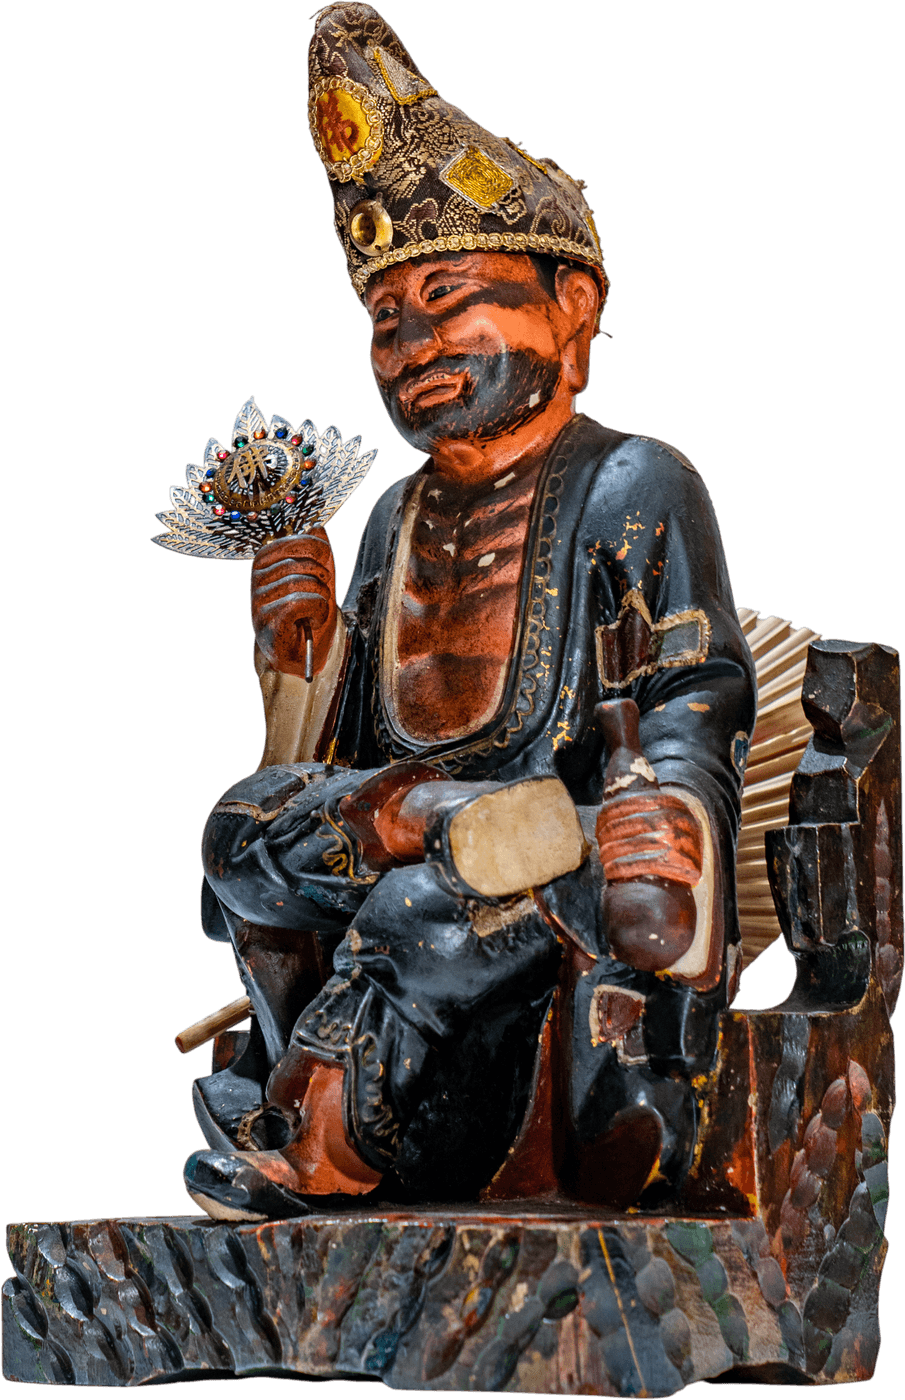
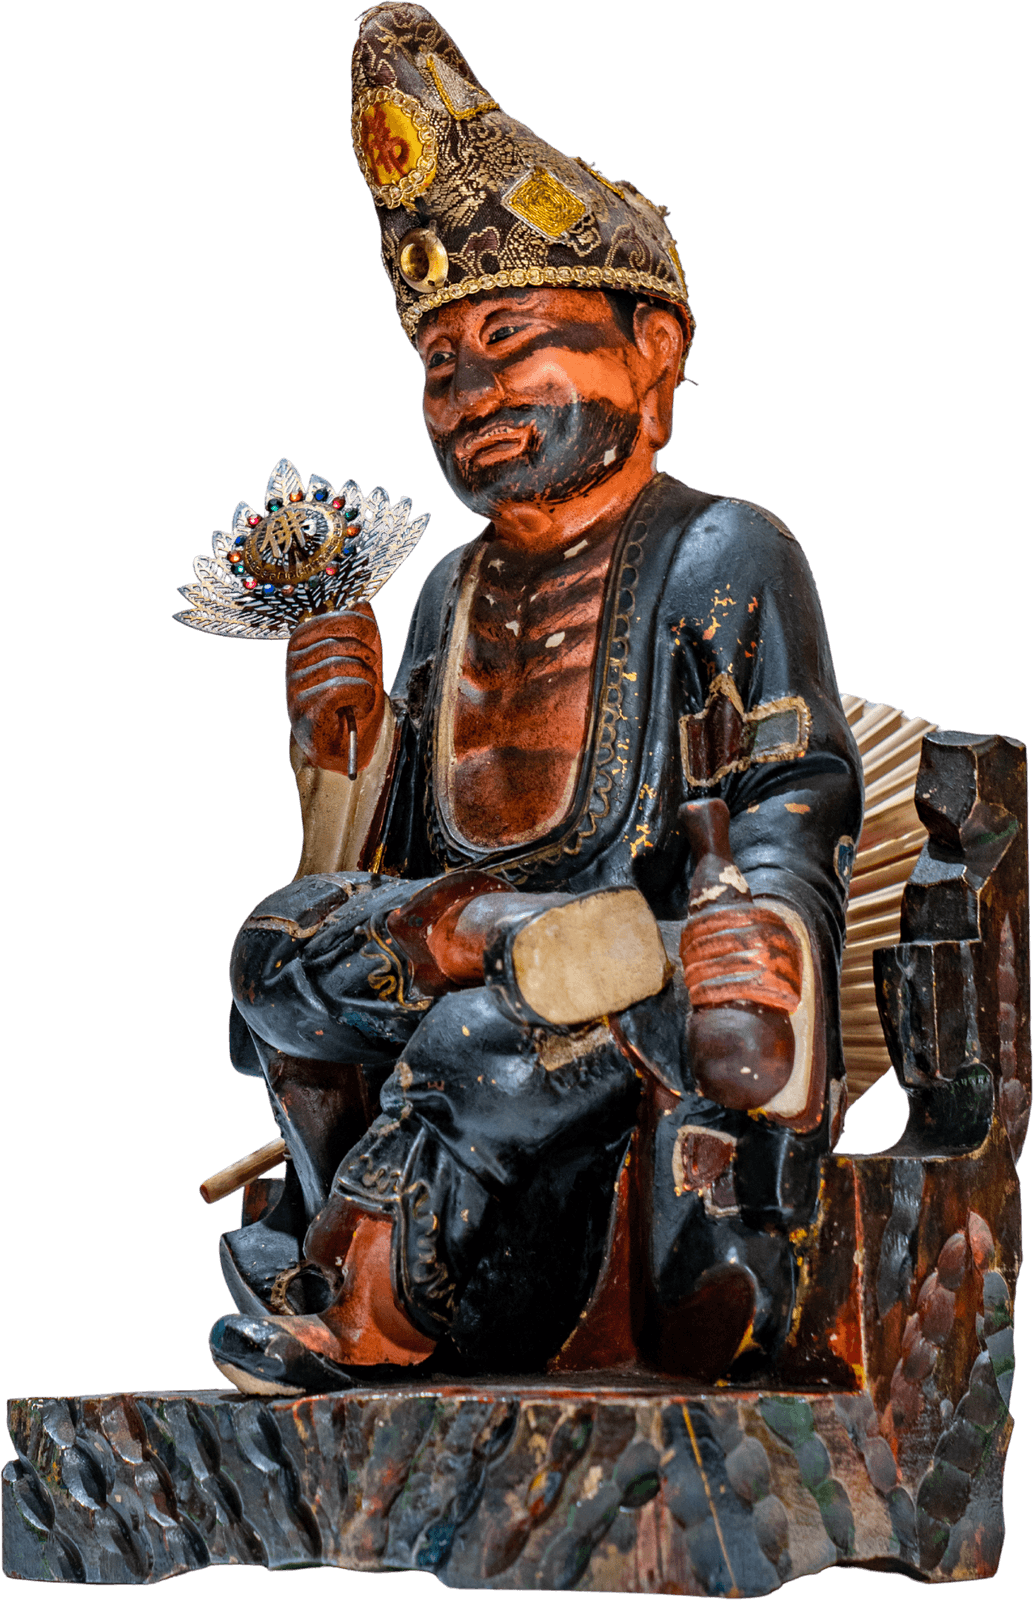
fix: 補上正名與重排的其餘檔案（上一個 commit 只帶到刪檔）
上一個 commit（2b377c6）的 git add 因為 hero-mazu 的 pathspec 已不存在而整批
中止，只有先前用 git rm --cached 暫存的刪除被提交。結果是「hero-mazu.* 已刪除，
但 App.tsx 仍指向它」，正式站中間那尊會抓不到圖。

這個 commit 補上其餘全部：App.tsx（HERO_DEITIES 正名與重排、註解）、index.html
（preload 指向 hero-sanma）、hero-sanma.*（新檔）、hero-jigong.* 與 hero-erma.*
（換成 1600 高的新照片）、CLAUDE.md（min() 係數 0.79）。

內容說明見 2b377c6 的訊息。

diff --git a/App.tsx b/App.tsx
@@ -323,21 +323,38 @@ const HERO_SLIDESHOW = false;
 /**
  * Hero 的三尊神尊。
  *
- * 構圖是**主神居中**：天上聖母最高最大、疊在最上層（z-3），濟公與二媽退為兩側脅侍，
- * 尺寸相當、頂端幾乎齊平，被主神各蓋住一截。三尊的頂端連線是中央最高的拱形，
- * 不是舊版由左而右遞增的斜線——換排法時這條線就是驗收依據。
+ * 身分（**不要再弄錯**）：左＝濟公活佛、中＝天上聖母三媽、右＝天上聖母二媽。
+ * **三媽是本壇主神**，橘袍；二媽是黃袍。檔名 hero-jigong／hero-sanma／hero-erma
+ * 與 alt 都照這個對應，index.html 的 preload 指向三媽。
+ * 想快速確認誰是誰：取袍身色相中位數，三媽約 21°（橘）、二媽約 45°（黃）。
+ *
+ * 構圖是**主神居中、三尊高低錯落**（廟方要求）：
+ *   高度與頂端一律是 三媽 > 二媽 > 濟公，三媽最高最大且疊在最上層（z-3）。
+ *
+ * **驗收依據是「彼此不蓋到頭」**，而且要用實際像素判定，不能只看外框：
+ * 每尊的頭部（含冠帽）範圍由 alpha 輪廓剖面算出——由上往下找寬度首次超過
+ * 最大寬 55% 的那一列當肩線，肩線以上就是頭。實測值：
+ *   濟公 x 22.4–76.1%、y 0–32.8%；三媽 x 23.9–86.6%、y 0–34.5%；
+ *   二媽 x 33.9–88.5%、y 0–42.0%。
+ * 判定要取「上層那尊的不透明像素 ∩ 下層那尊頭部的不透明像素」。只用頭部矩形
+ * 會誤判——矩形四角本來就是透明的，量到的重疊有一半根本沒碰到冠帽。
  *
  * **手機（未加 sm: 的那組）用 vw、桌機（sm:）用 vh，同一個斷點內單位必須一致**，
  * 否則畫面比例一變，三尊的相對大小與重疊量就會各走各的，拱形也就歪了。
  *
- * 桌機那組每個 vh 都包一層 `min(A vh, A×0.875 vw)`（**0.875 這個比例八個值要一起改**）。
+ * 桌機那組每個 vh 都包一層 `min(A vh, A×0.79 vw)`（**0.79 這個比例八個值要一起改**）。
  * 為什麼需要：平板直立（iPad 第十代 820×1180）時螢幕又高又窄，純 vh 會讓整組寬過畫面，
  * 最左邊的濟公被切掉。加上 vw 上限之後，高瘦畫面自動改由寬度決定尺寸，三個高度與
- * 兩個重疊量同步縮放，構圖不變。係數從 0.9 降到 0.875 是因為主神居中的新構圖比舊版寬，
- * 820×1180 下整組原本溢出左緣 20px；0.875 讓它縮到 794px，剛好塞進可用的 796px。
- * 判定門檻是長寬比 1/0.875 ≈ 1.143：比這寬（一般桌機、筆電、平板橫放）走 vh，
- * **桌機完全不受影響**（1280×800 實測三尊高度仍是 512/752/544、位置一模一樣）；
- * 比這窄（平板直立）走 vw。
+ * 兩個重疊量同步縮放，構圖不變。係數一路從 0.9 降到 0.79，是因為每次把整組加大
+ * （廟方要求「不要都擠在右下角，提高到整個右邊」）都會讓它在平板直立溢出左緣。
+ * 0.79 讓 820×1180 下整組剛好塞得進可用寬度。
+ * 判定門檻是長寬比 1/0.79 ≈ 1.266：比這寬（一般桌機、筆電、平板橫放）走 vh，
+ * **桌機完全不受影響**；比這窄（平板直立）走 vw。
+ *
+ * 已知未修：平板直立（820×1180）時 Hero 左欄的「報名普渡法會」按鈕會被擠出畫面左緣。
+ * 那是既有問題（正式站量到 left=-173），成因是 stage 掛 shrink-0、左欄是 flex-1，
+ * 按鈕又是 whitespace-nowrap。要修得把 Hero 的兩欄斷點從 sm 提到 lg，讓平板直立
+ * 沿用手機的上下堆疊版型——那是另一件事，不在這一輪。
  *
  * `sm:max-w-none`：原本的 `sm:max-w-[44/52/60vw]` 是防呆上限，但三個加起來是 156vw，
  * 在窄螢幕上三個同時觸頂，反而變成「寬度被撐開」的元凶。高度改用 min() 之後
@@ -347,21 +364,21 @@ const HERO_SLIDESHOW = false;
  * `margin-bottom: -calc(...)`，那是無效的 CSS。
  */
 const HERO_DEITIES: Array<{ src: string; fallback: string; name: string; size: string; drop: string; gap?: string; layer: string; priority?: boolean }> = [
-  // 左脅侍。z 在主神之下，右半邊被主神蓋住一截。
+  // 左：濟公活佛。z 在主神之下，右半邊被主神蓋住一截（但不會蓋到頭，見上方說明）。
   { src: '/hero-jigong.webp', fallback: '/hero-jigong.png', name: '濟公活佛',
-    size: 'h-[76vw] max-w-[70vw] sm:h-[min(64vh,56vw)] sm:max-w-none',
-    drop: '-mb-[6.6vw] sm:mb-[calc(min(5.2vh,4.55vw)*-1)]', layer: 'z-[2]' },
-  // 主神居中：最高最大、疊在最上層，優先權也給她
-  //（index.html 的 preload 也是這一張，兩邊要一致）
-  { src: '/hero-mazu.webp',   fallback: '/hero-mazu.png',   name: '天上聖母',
-    size: 'h-[120vw] max-w-[88vw] sm:h-[min(94vh,82.25vw)] sm:max-w-none',
-    drop: '-mb-[16.2vw] sm:mb-[calc(min(11.5vh,10.06vw)*-1)]',
-    gap: '-ml-[29vw] sm:ml-[calc(min(16vh,14vw)*-1)]', layer: 'z-[3]', priority: true },
-  // 右脅侍。二媽也是天上聖母，但在這個構圖裡退為脅侍，尺寸與濟公相當
-  { src: '/hero-erma.webp',   fallback: '/hero-erma.png',   name: '天上聖母（二媽）',
-    size: 'h-[80vw] max-w-[74vw] sm:h-[min(68vh,59.5vw)] sm:max-w-none',
-    drop: '-mb-[10.3vw] sm:mb-[calc(min(8vh,7vw)*-1)]',
-    gap: '-ml-[27vw] sm:ml-[calc(min(16vh,14vw)*-1)]', layer: 'z-[1]' },
+    size: 'h-[60vw] max-w-[72vw] sm:h-[min(72vh,56.88vw)] sm:max-w-none',
+    drop: '-mb-[7vw] sm:mb-[calc(min(8vh,6.32vw)*-1)]', layer: 'z-[2]' },
+  // 中：天上聖母三媽，本壇主神。最高最大、疊在最上層，優先權與 preload 都給她
+  //（index.html 的 preload 要指向同一張，兩邊不一致等於預載了不是主角的那張）
+  { src: '/hero-sanma.webp',  fallback: '/hero-sanma.png',  name: '天上聖母三媽',
+    size: 'h-[112vw] max-w-[88vw] sm:h-[min(98vh,77.42vw)] sm:max-w-none',
+    drop: '-mb-[17vw] sm:mb-[calc(min(13vh,10.27vw)*-1)]',
+    gap: '-ml-[15vw] sm:ml-[calc(min(10.5vh,8.29vw)*-1)]', layer: 'z-[3]', priority: true },
+  // 右：天上聖母二媽。刻意與濟公不同高，做出「高高低低」而不是對稱的兩根柱子
+  { src: '/hero-erma.webp',   fallback: '/hero-erma.png',   name: '天上聖母二媽',
+    size: 'h-[64vw] max-w-[76vw] sm:h-[min(78vh,61.62vw)] sm:max-w-none',
+    drop: '-mb-[9vw] sm:mb-[calc(min(6vh,4.74vw)*-1)]',
+    gap: '-ml-[16vw] sm:ml-[calc(min(15.5vh,12.25vw)*-1)]', layer: 'z-[1]' },
 ];
 
 // 志工報名有自己的網址 /volunteer：可單獨分享，瀏覽器上一頁也能正確返回。

diff --git a/index.html b/index.html
@@ -20,7 +20,7 @@
     <link rel="apple-touch-icon" href="/apple-touch-icon.png" />
     <link rel="canonical" href="https://heshengtan.tw/" />
     <link rel="preload" href="/hero-gold.jpg" as="image" fetchpriority="high" />
-    <link rel="preload" href="/hero-mazu.webp" as="image" type="image/webp" />
+    <link rel="preload" href="/hero-sanma.webp" as="image" type="image/webp" />
 
     <!-- Open Graph（LINE／Facebook 分享預覽） -->
     <meta property="og:type" content="website" />

diff --git a/CLAUDE.md b/CLAUDE.md
@@ -76,7 +76,7 @@ vercel --prod --yes  # 部署正式站（已連結專案 machu）
 - 後台匯出/篩選：`inDateRange()` 依報名日期（本地時區）篩選、`DateRangeFilter` 共用元件；匯出走 `filtered` 會跟著日期範圍。法會/志工兩分頁都有。
 - **Hero 香煙（`components/IncenseSmoke.tsx`）**：**畫一條會捲的曲線，不要用粒子**。第一版做粒子模擬，粒子一散開單顆濃度就掉到看不見，整體只剩一片霧——廟方要的是「細細長長的一縷白煙」，粒子做不出來。三個關鍵：(1) **螺旋要 x、y 同時繞**（`COIL`）——只讓 x 擺動、y 單調往上，畫出來是鋸齒像閃電；真實的煙是繞著上升軸的螺旋，側看會投影成一串壓扁的橢圓、甚至自我交疊，那才是麻花感。(2) **擾動隨高度才加進來**（`LAMINAR`/`TRANSITION`），下段直、上段捲，這是線香層流轉紊流的真實行為。(3) **柔邊靠疊四道**（`PASSES`）由寬而淡到窄而濃，只畫一道不是銳利得像鐵絲就是糊得像霧。形狀的相位隨時間往上跑、速度等於煙速（`RISE_SECONDS` 換算），煙的形狀是被氣流整段帶著走的。線很細所以要照實際像素畫，用一半解析度會糊掉。(4) **整條一次 `fill()`，不要分段 `stroke()`**——舊版把曲線切成 40 段各自描邊，`lineCap:'round'` 讓每段的圓頭與下一段重疊、螺旋自我交疊處又再疊一次，alpha 相加就是一串「反光顆粒」（離線量到沿線 35 個亮點，接近 240/6=40 個接縫）。改成沿中心線推出半個線寬、繞一圈成封閉多邊形整條填滿：沒有接縫，而且 nonzero 填充規則對自我交疊只填一次。濃度改用垂直線性漸層（`alphaAt` 只跟高度有關，剛好對得上）。改完亮點數降到 4、相鄰起伏降到 1/10；因為不再疊加，平均亮度掉 17%，`PASSES` 的 a 要乘 1.3 補回來。捲離 Hero 或切分頁會停掉 rAF；可見與否一律以 `getBoundingClientRect` 為準，不採信 IntersectionObserver 的 isIntersecting（誤報一次 false 就會永遠停住）。
 - **神尊去背（`scripts/build-hero-assets.js`＋`scripts/cutout-lib.js`）**：廟方給新照片時跑這支就好，用法寫在檔頭（sharp 裝在暫存資料夾，別寫進 package.json）。作法是「顏色判定＋從四邊長進來的連通元件＋斷細頸」，不是單純的色鍵。兩個踩過的坑：(1) **sharp 對單通道 raw 做 `blur()` 會自動升成 3 通道**，沒接 `.toColourspace('b-w')` 拿回來的 buffer 長度是 3 倍，alpha 會整片錯位；(2) 不要用 sharp 的 `trim()` 裁透明邊界——它比的是 RGB，而透明處的 RGB 還留著原始背景，會裁到莫名其妙的範圍，自己算 bbox 再 `extract()`。原則：**寧可留一點背景也不要咬掉神尊**（Hero 底是金色，殘留的黃牆幾乎看不出來，缺一塊袍子很明顯）。實際咬過頭的兩個原因：(1) **形態學開運算（fgOpen）會刪掉細長突出物**——濟公手上的法器、帽尖、冠帽流蘇都是這樣消失的，已經拿掉不再使用；(2) **顏色門檻抓太鬆**：白背板實測 s 只有 0.03–0.04，用 s<0.18 會把神尊身上的銀線繡、珍珠、淺色布一起判成背景。灰背板改用色相切（背板偏藍 h≈205，神尊是暖色 h≈42）比用亮度安全得多。驗收要用 `-tmp-mask.png` 這種**未裁切的全幅遮罩**疊回原圖看，拿裁切後的 PNG 去對位會因為 bbox 不對稱產生假的「被咬掉」。
-- **Hero 神尊在平板直立會被切（`HERO_DEITIES`）**：桌機那組尺寸原本是純 vh，平板直立（iPad 第十代 820×1180）螢幕又高又窄，整組寬到 949px 卻只有 820px 可放，最左邊的濟公被切掉快一半。解法是每個 vh 都包 `min(A vh, A×0.875 vw)`，**0.875 這個比例八個值要一起改**；長寬比 1/0.875≈1.143 是分界，比這寬走 vh（桌機完全不受影響），比這窄走 vw。同時要把 `sm:max-w-[…vw]` 改成 `sm:max-w-none`——那三個上限加起來是 156vw，窄螢幕上同時觸頂反而是撐寬的元凶。負邊距要寫 `mb-[calc(min(…)*-1)]`，寫 `-mb-[min(…)]` 會產出無效的 `-calc(...)`。改完在 820×1180／1024×1366／1280×800 量過，臉的連線都還是 10.0°。
+- **Hero 神尊在平板直立會被切（`HERO_DEITIES`）**：桌機那組尺寸原本是純 vh，平板直立（iPad 第十代 820×1180）螢幕又高又窄，整組寬到 949px 卻只有 820px 可放，最左邊的濟公被切掉快一半。解法是每個 vh 都包 `min(A vh, A×0.79 vw)`，**0.79 這個比例八個值要一起改**；長寬比 1/0.79≈1.266 是分界，比這寬走 vh（桌機完全不受影響），比這窄走 vw。同時要把 `sm:max-w-[…vw]` 改成 `sm:max-w-none`——那三個上限加起來是 156vw，窄螢幕上同時觸頂反而是撐寬的元凶。負邊距要寫 `mb-[calc(min(…)*-1)]`，寫 `-mb-[min(…)]` 會產出無效的 `-calc(...)`。改完在 820×1180／1024×1366／1280×800 量過，臉的連線都還是 10.0°。
 - **遷址方案手機卡片**（`components/RelocationPage.tsx`）：只列「這一級有的」項目，沒有的不要畫灰色「—」。桌機是矩陣表格、橫向能比較各級差異，畫「—」才有意義；手機一級一張卡沒有比較對象，列一堆「—」是干擾（廟方明確反映過）。金額的「元」由 `withCurrency()` 在渲染層補，後台只存數字，「隨喜」這種非數字不會被加上單位。
 - **滾動視差／進場（`hooks/useScrollMotion.ts`）**：全站一個引擎，App 掛一次掃全 document。元素只要掛 class：`.sr`＋`.sr-up/left/right`（進場）、`.sr-figure`（正向位移 96px）、`.sr-counter`（反向 56px），`data-par` 可覆寫幅度。**三件事必須分在三層元素上**：進場的 transform 由 CSS 給、視差的 transform 由 JS 寫成 inline、卡片自己的 `hover:-translate-y-*` 又是第三個 transform——疊在同一個元素上只會剩一個生效。另外 Tailwind CDN 排在自訂 `<style>` 之後，元素若帶 `transition-all` 會把 `.sr` 的 0.85s 曲線壓成 150ms，這種卡片要把 `.sr` 放外層包一層。
 - **把既有元素包進新容器時，檢查它有沒有「靠父容器生效」的 class**：`flex-1`、`col-span-*`，以及最容易漏的**隱性依賴**——輸入框沒寫 `w-full`、單純靠 grid 自動拉滿。包一層 `<label>` 之後，grid 的子元素變成 label，input 只剩瀏覽器預設寬度；而預設寬度取決於字級，**小字級的裝置上看起來變窄、大字級的裝置上反而溢出被裁掉**（同一個 bug 兩種表現，2026-08-13 踩過）。驗收時要比對寬度，不能只確認新元素有出現。
